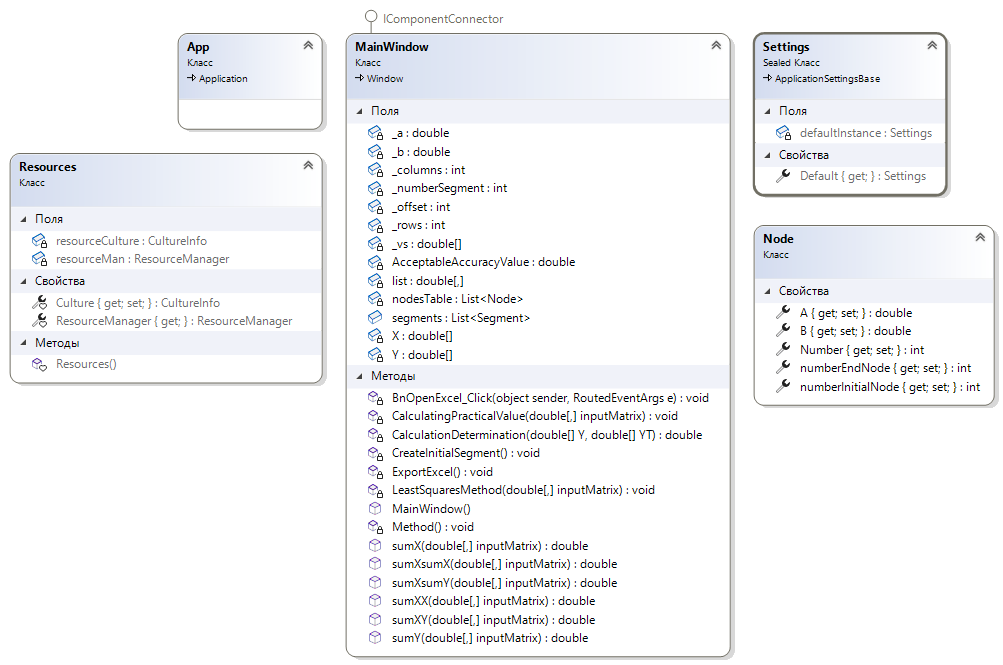
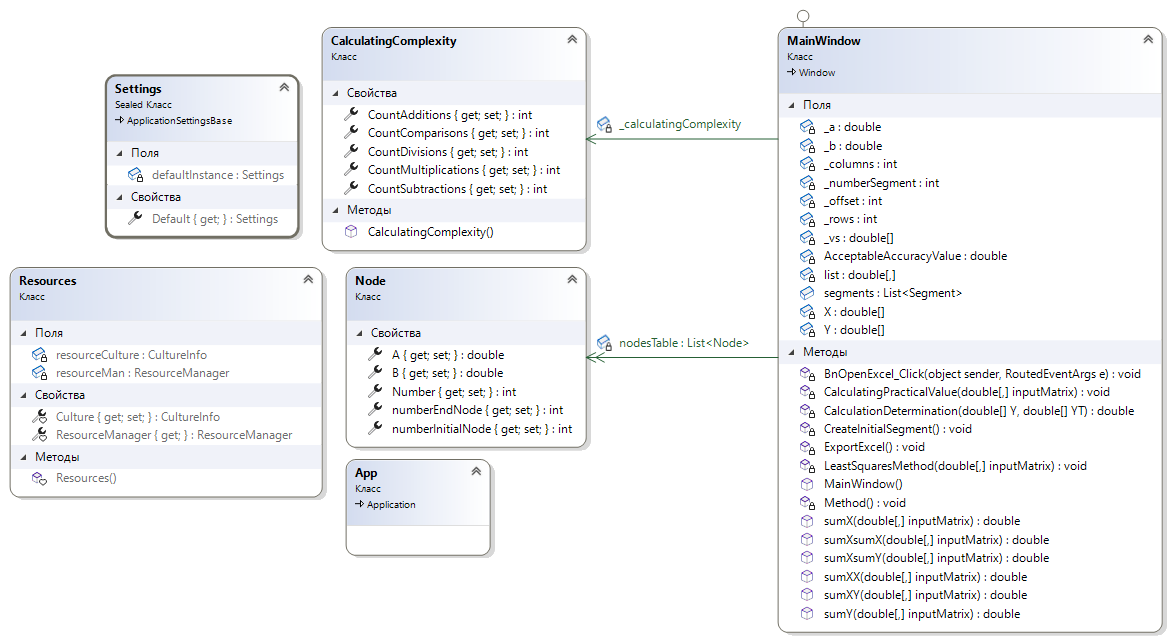
Добавлено вычисление сложности и количества операций

Changed region(s): [[0.0, 0.0, 1.0, 0.9984]]

diff --git a/ImportExcel/MainWindow.xaml.cs b/ImportExcel/MainWindow.xaml.cs
@@ -109,6 +109,11 @@ namespace ImportExcel
             }
             Method();
             LbInputDataSecond.ItemsSource = segments;
+            MessageBox.Show($"Количество сравнений = {_calculatingComplexity.CountComparisons}\n" +
+                $"Количество сложений = {_calculatingComplexity.CountAdditions}\n" +
+                $"Количество вычитаний = {_calculatingComplexity.CountSubtractions}\n" +
+                $"Количество умножений = {_calculatingComplexity.CountMultiplications}\n" +
+                $"Количество делений = {_calculatingComplexity.CountDivisions}");
         }
         /// <summary>
         /// Вычисление практического значения в методе наименьших квадратов
@@ -246,6 +251,8 @@ namespace ImportExcel
                     segment1.LeastSquaresMethod();
                     segment1.CalculatingPracticalValue();
                     segment1.CalculationDetermination();
+
+                    _calculatingComplexity.CountComparisons++;
                 }
                 while (segment1.Determination < AcceptableAccuracyValue);
                 segment1.numberInitialNode++;
